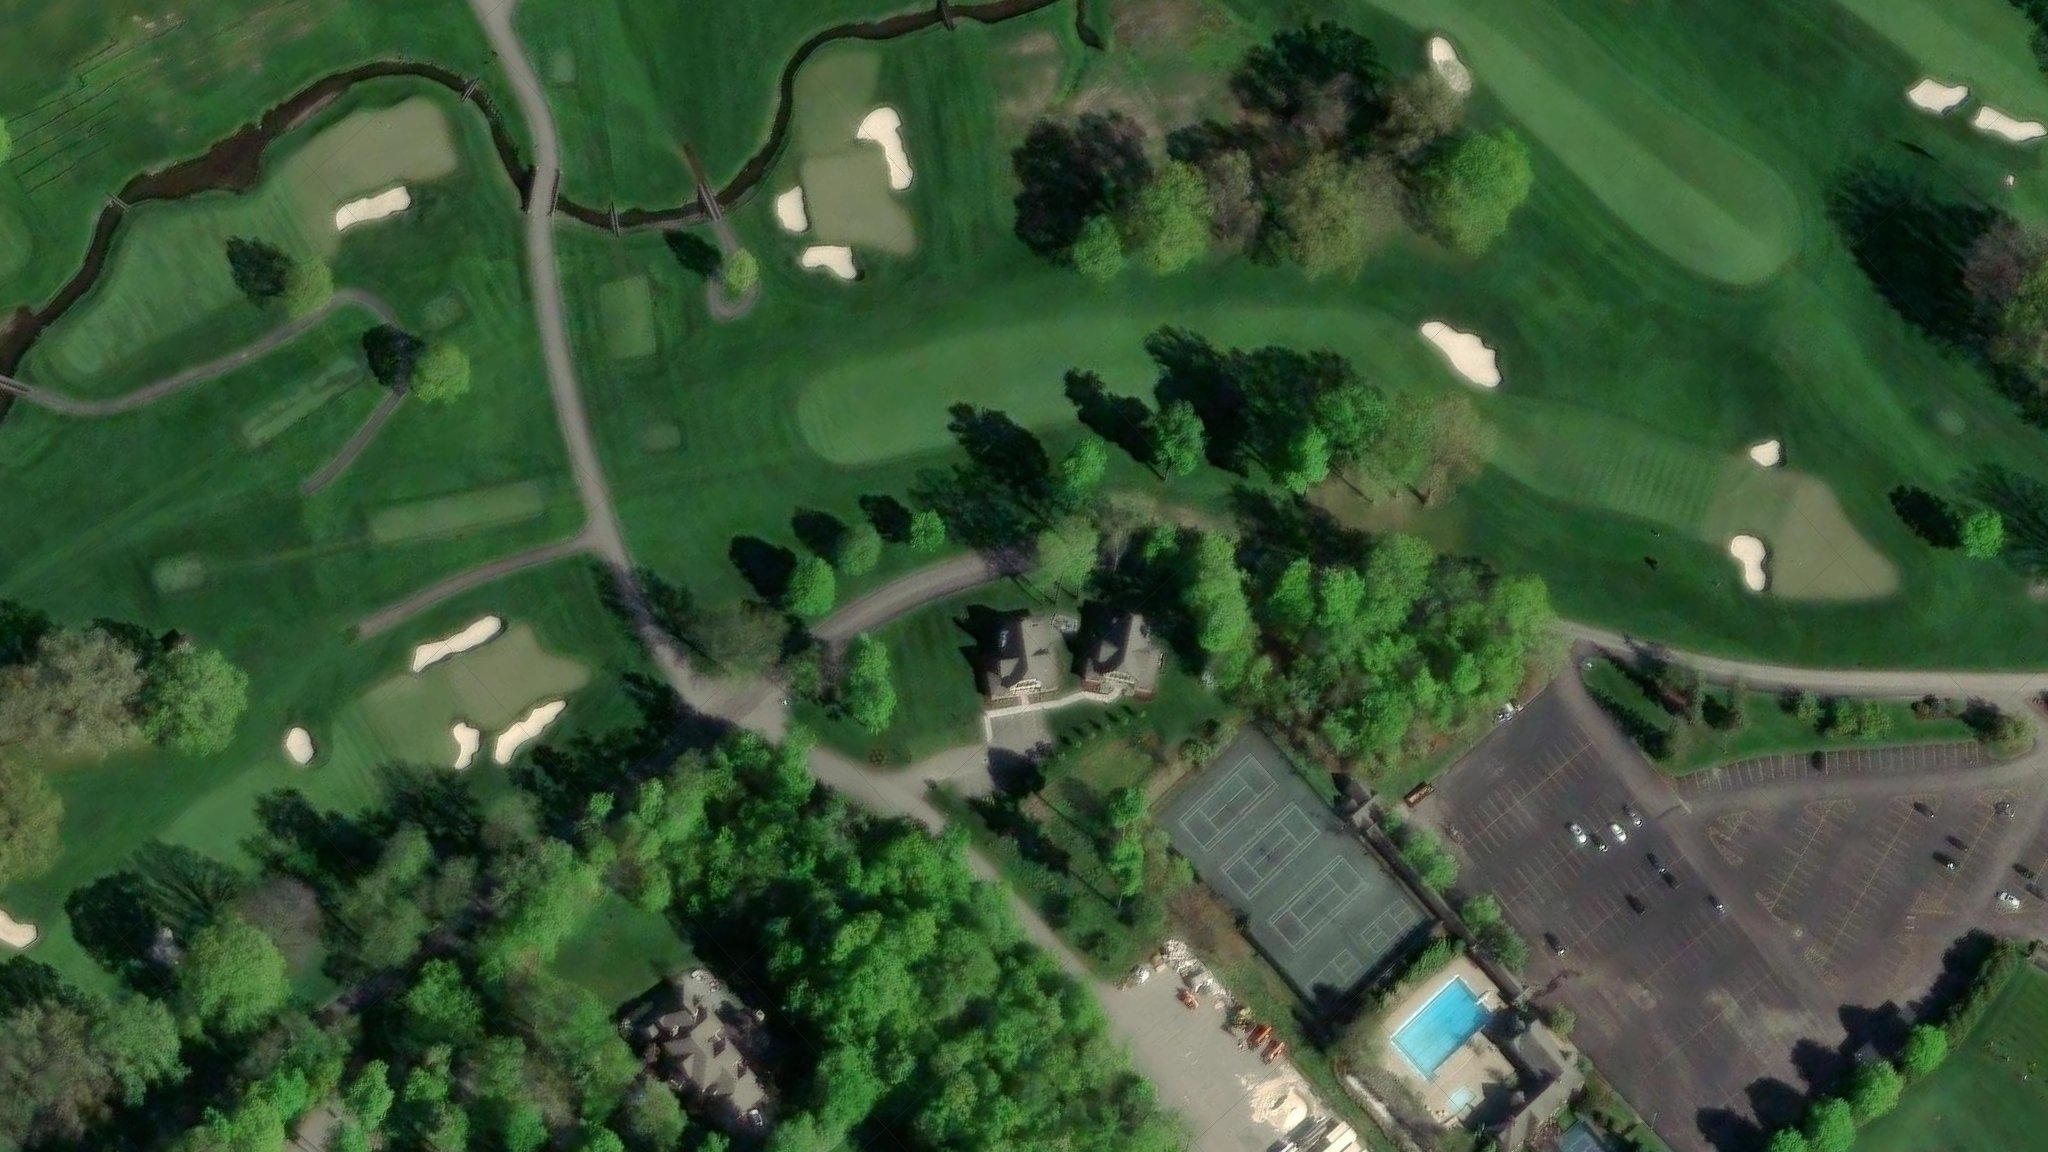
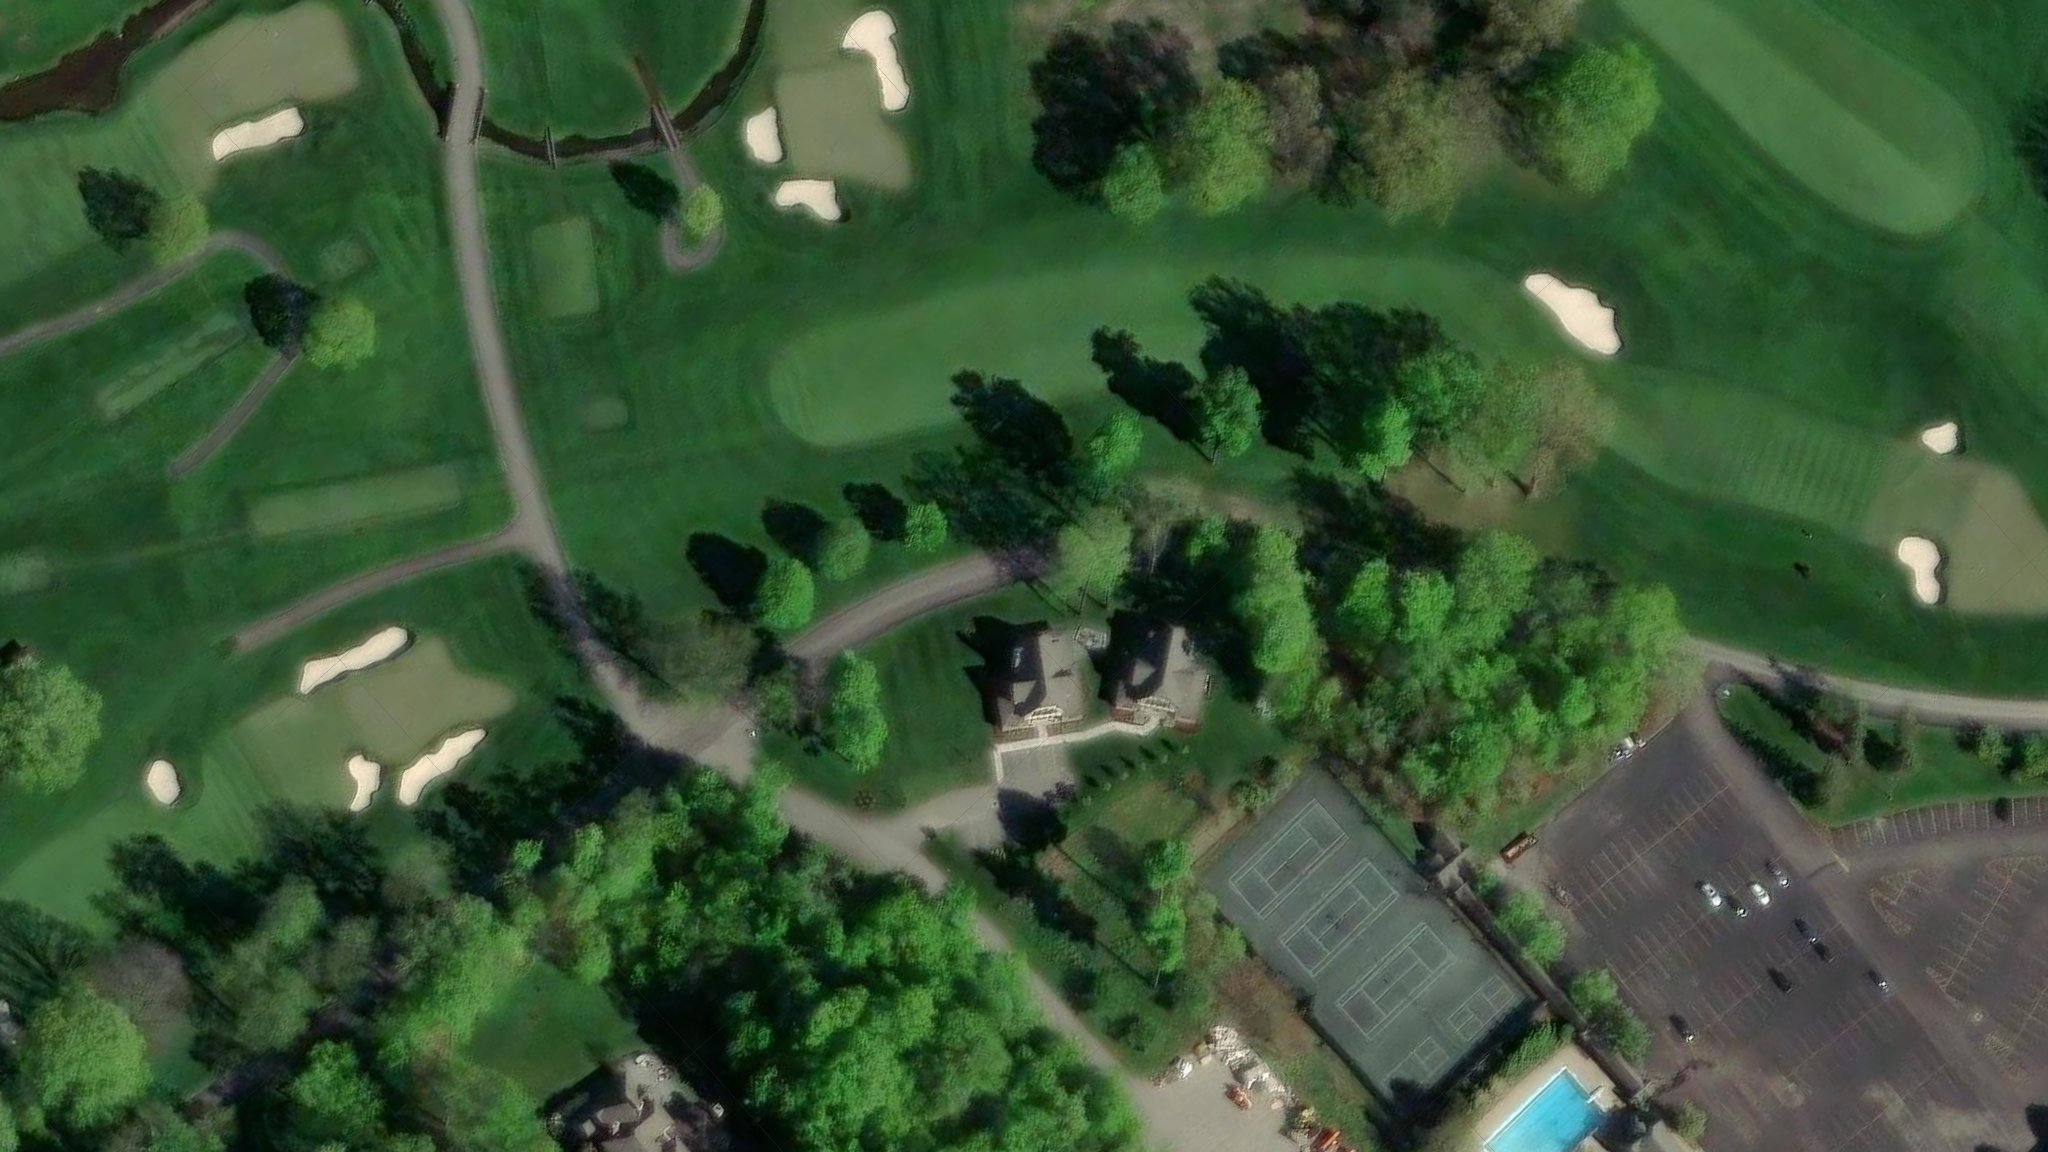
Marshal guide: 8 hole images, 36 stations (+1 image file)

diff --git a/js/holes-data.js b/js/holes-data.js
@@ -1,5 +1,5 @@
 // Hole images and marshal stations.
-// Saved from admin.html on 2026-08-25T00:37:45.234Z
+// Saved from admin.html on 2026-08-25T00:38:54.215Z
 const HOLES_DATA = {
   "east": {
     "name": "Oak Hill East",
@@ -456,15 +456,45 @@ const HOLES_DATA = {
         ],
         "source": {
           "kind": "satellite",
-          "tee": null,
-          "green": null,
+          "tee": {
+            "lat": 43.11640192226023,
+            "lng": -77.52770802051582
+          },
+          "green": {
+            "lat": 43.11351687922185,
+            "lng": -77.53125982775894
+          },
           "bearingNudge": 0,
-          "zoomNudge": 0,
-          "shots": []
+          "zoomNudge": 0.25,
+          "shots": [
+            {
+              "lat": 43.11410000107352,
+              "lng": -77.5295879731334
+            }
+          ]
         },
-        "image": null,
-        "imageReady": false,
-        "spotsDone": false
+        "image": {
+          "src": "images/holes/east-09.jpg",
+          "width": 2048,
+          "height": 1152,
+          "tee": {
+            "x": 0.0005330116988572775,
+            "y": 0.4999999999999999
+          },
+          "green": {
+            "x": 0.9994669883011427,
+            "y": 0.5000000000000002
+          },
+          "shots": [
+            {
+              "x": 0.6776907082758089,
+              "y": 0.26286179280328026
+            }
+          ]
+        },
+        "imageReady": true,
+        "spotsDone": false,
+        "lengthYards": 490.37371772481583
       },
       {
         "number": 10,
